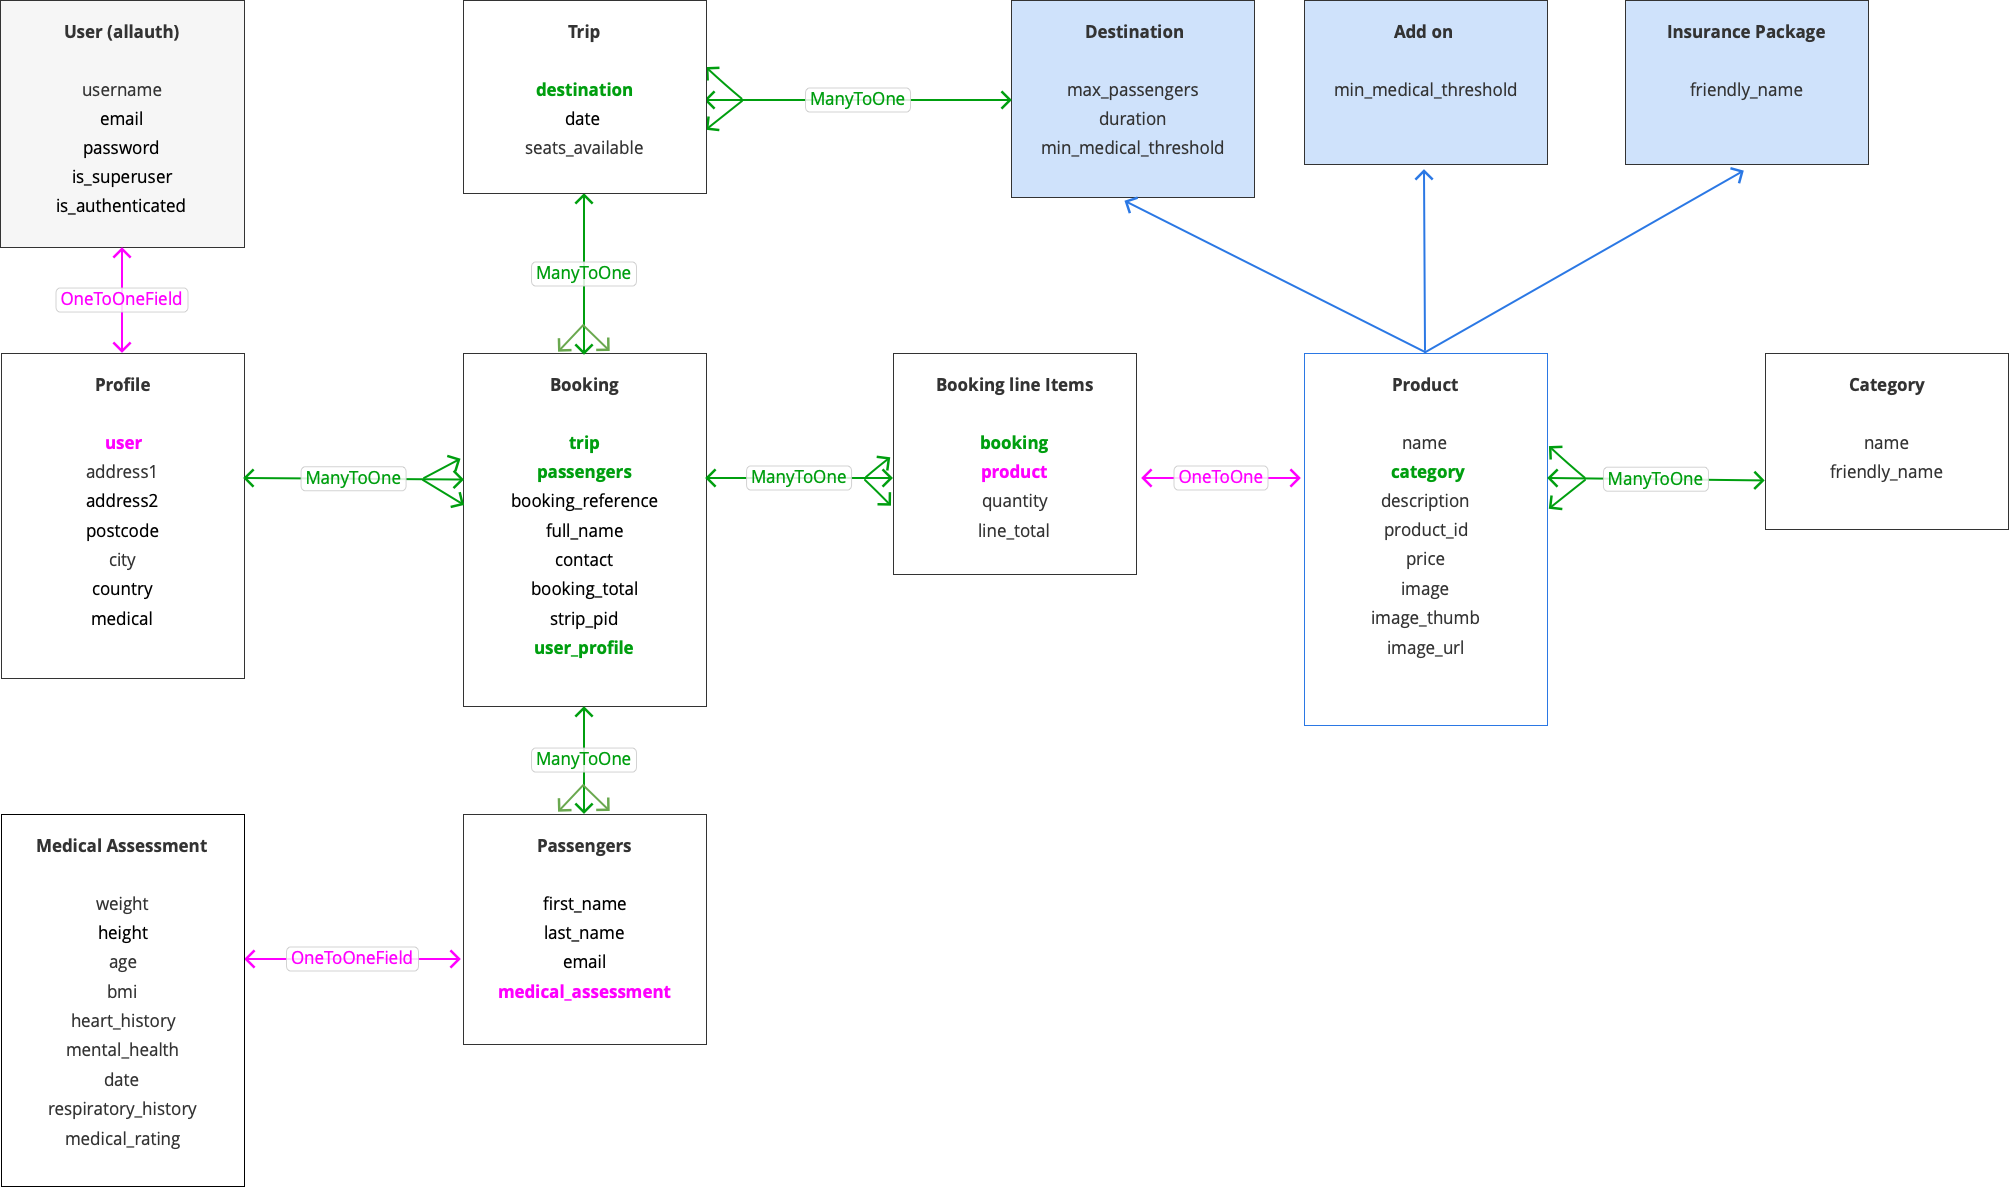
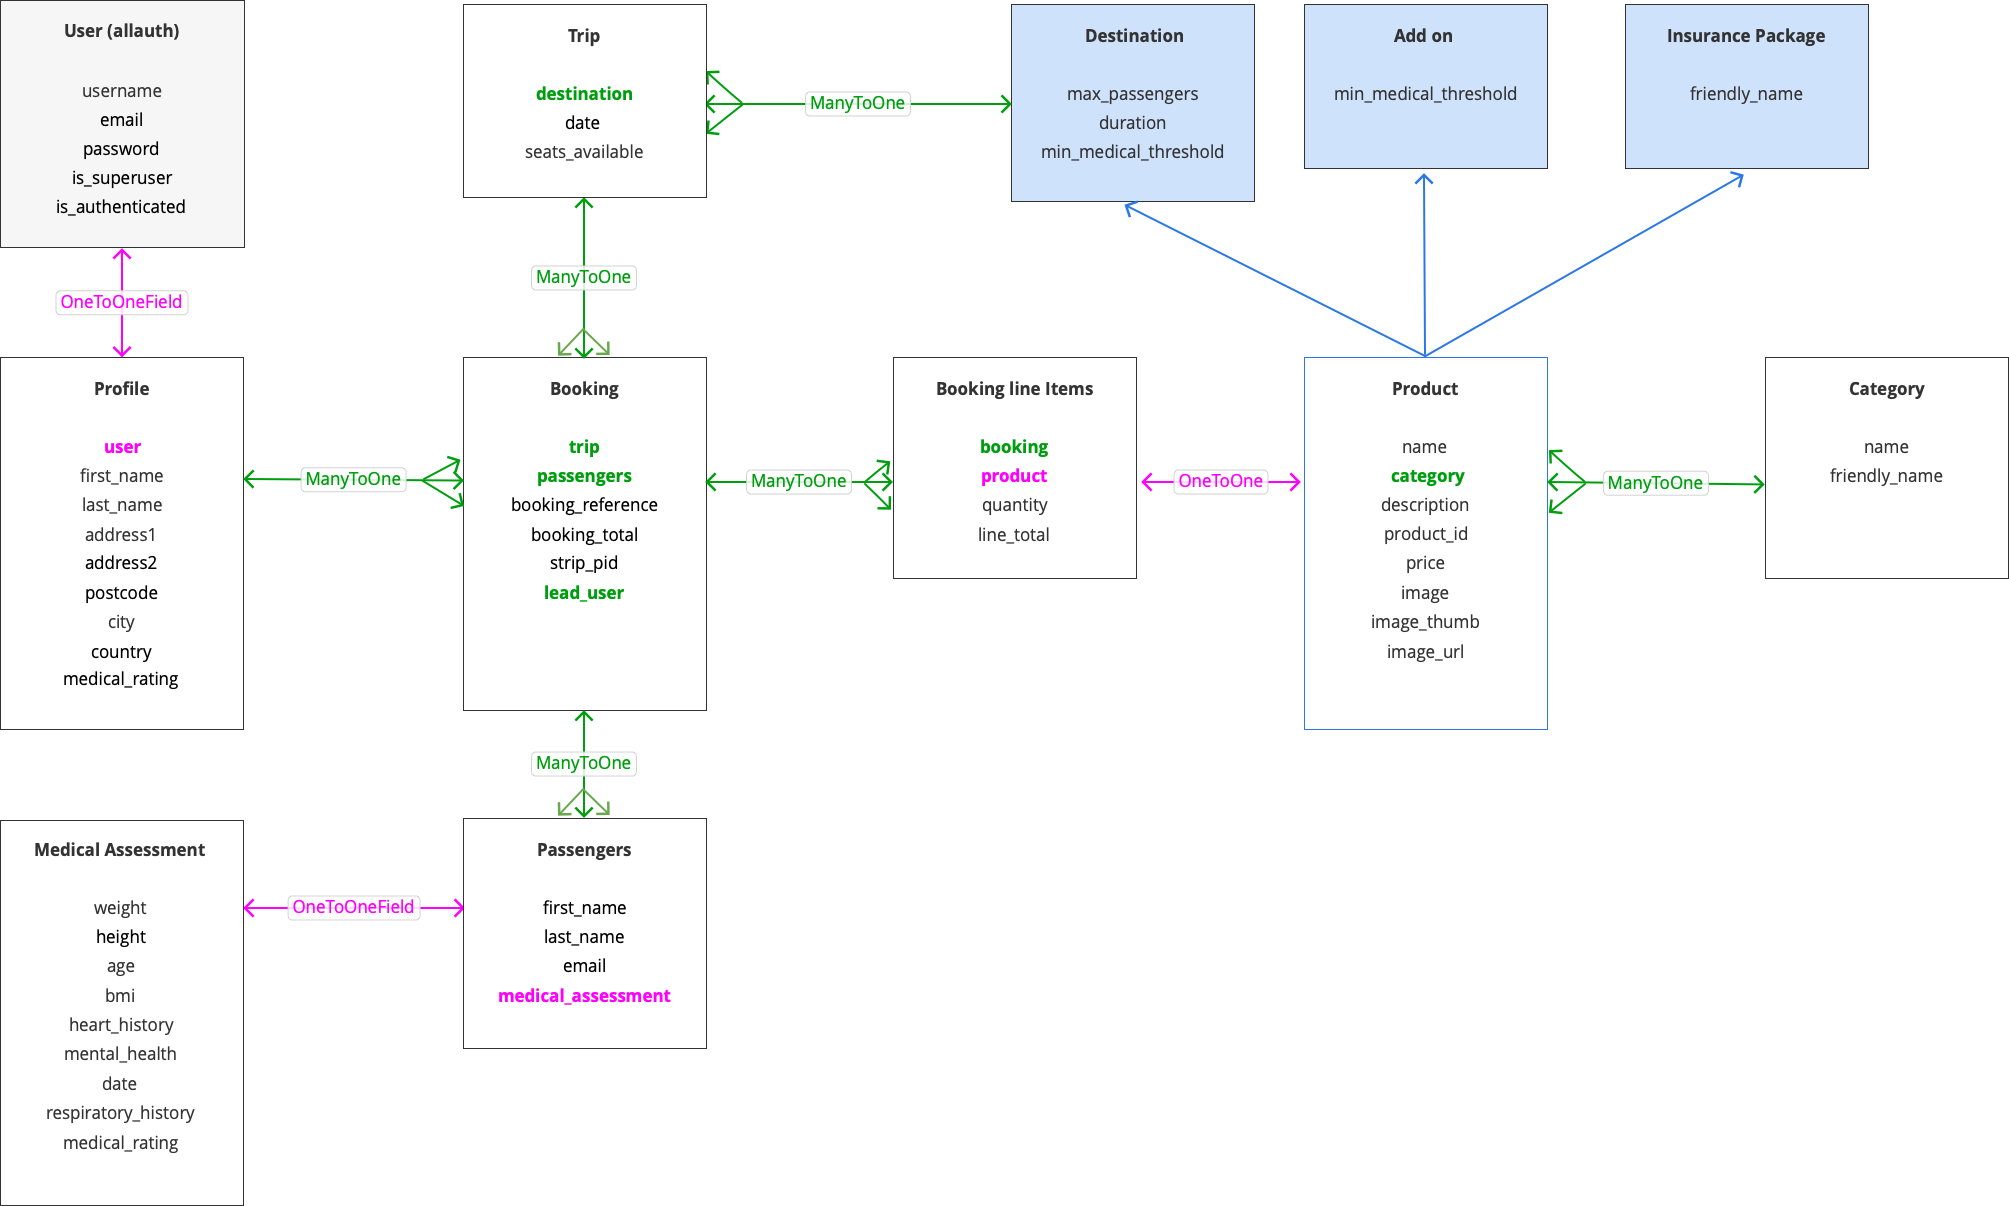
Added Docstrings

diff --git a/bookings/models.py b/bookings/models.py
@@ -1,3 +1,6 @@
+"""
+Models include Trip, Passenger and Booking Line Item
+"""
 import uuid
 from django.db import models
 from django.db.models import Count
@@ -5,6 +8,11 @@ from products.models import Destination, Product
 
 
 class Trip(models.Model):
+    """
+    Stores information about each Trip on offer to any given destination
+    Monitors how many seats are left available as booking are made
+
+    """
     destination = models.ForeignKey(
         Destination,
         null=True,
@@ -19,7 +27,7 @@ class Trip(models.Model):
 
     def save(self, *args, **kwargs):
         """
-        Override the original save method and set the number of
+        Override the original save method and update the number of
         seats available
         """
         reservations = (
@@ -33,6 +41,9 @@ class Trip(models.Model):
 
 
 class Booking(models.Model):
+    """ Model stores information about each booking such as which trip
+    the booking is for, details of the passengers and the overall cost  """
+
     booking_ref = models.CharField(
         primary_key=True, max_length=20, null=False, editable=False
     )
@@ -40,7 +51,7 @@ class Booking(models.Model):
         Trip, on_delete=models.SET_NULL, null=True, blank=False
     )
     """
-    user_profile = models.ForeignKey(
+    lead_user = models.ForeignKey(
         "UserProfile",
         on_delete=models.SET_NULL,
         null=True,
@@ -54,9 +65,6 @@ class Booking(models.Model):
     stripe_pid = models.CharField(
         max_length=254, null=False, blank=False, default=""
     )
-    first_name = models.CharField(max_length=50, null=False, blank=False)
-    last_name = models.CharField(max_length=50, null=False, blank=False)
-    email = models.EmailField(max_length=254, null=False, blank=False)
     num_passengers = models.IntegerField(null=False, blank=False)
 
     def _generate_booking_ref(self):
@@ -76,6 +84,9 @@ class Booking(models.Model):
 
 
 class Passenger(models.Model):
+    """ Store information about each passenger included
+    in a booking """
+
     booking = models.ForeignKey(
         Booking, on_delete=models.CASCADE, related_name="passengers"
     )
@@ -93,6 +104,12 @@ class Passenger(models.Model):
 
 
 class BookingLineItem(models.Model):
+    """
+    Related to the products being sold as part of the booking.
+    Each instance is an individual product that make up the order.
+    Calculates the total based on the quantity applied.
+    """
+
     booking = models.ForeignKey(
         Booking,
         null=False,

diff --git a/products/models.py b/products/models.py
@@ -1,7 +1,16 @@
+"""
+Models include Category, Product and Destination, AddOn and Insurance
+which subclass the Product model
+"""
 from django.db import models
 
 
 class Category(models.Model):
+    """
+    Applied against the Product model to define the different types
+    of products
+    """
+
     name = models.CharField(max_length=75)
     friendly_name = models.CharField(max_length=75, null=True, blank=True)
 
@@ -12,10 +21,17 @@ class Category(models.Model):
         return self.name
 
     def get_friendly_name(self):
+        """ Returns human readable name """
         return self.friendly_name
 
 
 class Product(models.Model):
+    """
+    General attributes that can be applied to all product instances
+    regardless of category.
+    Includes details that describe what the product is.
+    """
+
     category = models.ForeignKey(
         "Category", null=True, blank=True, on_delete=models.SET_NULL
     )
@@ -32,6 +48,8 @@ class Product(models.Model):
 
 
 class AddOn(Product):
+    """ Inherits Product model and adds a threshold for customers """
+
     min_medical_threshold = models.IntegerField(
         default=0, null=False, blank=False
     )
@@ -41,6 +59,8 @@ class AddOn(Product):
 
 
 class Insurance(Product):
+    """ Inherits Product model """
+
     friendly_name = models.CharField(max_length=75, blank=True)
 
     def __str__(self):
@@ -48,6 +68,10 @@ class Insurance(Product):
 
 
 class Destination(Product):
+    """ Inherits Product model and stores key information about
+    the different destinations such as how many people can travel per trip
+    and roughly how long each trip takes.  """
+
     max_passengers = models.IntegerField(null=True, blank=True)
     duration = models.CharField(max_length=20, blank=True)
     min_medical_threshold = models.IntegerField(

diff --git a/bookings/forms.py b/bookings/forms.py
@@ -1,8 +1,12 @@
+"""
+Defines the form objects to be used for the booking aspects of the app
+Includes a form to search available dates
+"""
+from datetime import date
 from django import forms
-from django.forms import ModelChoiceField
+from django.forms import ModelChoiceField, NumberInput
 from django.forms.widgets import Select
 from .models import Destination
-from datetime import date
 
 
 class DateInput(forms.DateInput):
@@ -74,7 +78,10 @@ class InitialForm(forms.Form):
     Fields include an id attribute for referencing in Javascript
     """
 
-    destination = DestinationChoiceField(queryset=Destination.objects.all())
+    destination = DestinationChoiceField(
+        queryset=Destination.objects.all(),
+        widget=SelectWithOptionAttribute(attrs={"id": "selected-trip"})
+    )
     request_date = forms.DateField(
         required=True,
         widget=DateInput(
@@ -84,8 +91,6 @@ class InitialForm(forms.Form):
             }
         ),
     )
-    passengers = forms.IntegerField()
-    passengers.widget.attrs.update(
-        {"min": 1, "disabled": True, "id": "passengers-max"}
-    )
-    destination.widget.attrs.update({"id": "selected-trip"})
+    passengers = forms.IntegerField(widget=NumberInput(attrs={
+        "min": 1, "disabled": True, "id": "passengers-max"
+    }))

diff --git a/bookings/views.py b/bookings/views.py
@@ -13,7 +13,7 @@ def initial_search(request):
             destination_choice = request.GET['destination']
             date_choice = request.GET['request_date']
             passenger_total = request.GET['passengers']
-            destinations = Trip.objects.filter(
+            trips = Trip.objects.filter(
                 destination=destination_choice
             ).filter(
                 seats_available__gte=passenger_total
@@ -21,6 +21,6 @@ def initial_search(request):
             print(destination_choice)  
             print(destinations)  
     context = {
-        'destinations': destinations
+        'trips': destinations
     }
     return render(request, template, context)

diff --git a/products/views.py b/products/views.py
@@ -1,10 +1,14 @@
+"""
+Provides logic and context for the all_trips trip_detail
+"""
 from django.shortcuts import render, get_object_or_404
-from .models import Product
 from bookings.forms import InitialForm
+from .models import Product
 
 
 def all_trips(request):
     """ A view to show all trips """
+
     template = 'products/trips.html'
     destinations = Product.objects.filter(category=3)
     intital_form = InitialForm()
@@ -19,6 +23,7 @@ def all_trips(request):
 
 def trip_detail(request, product_id):
     """ A view to show individual destination details """
+
     destination = get_object_or_404(Product, pk=product_id)
 
     template = 'products/trip_detail.html'

diff --git a/README.md b/README.md
@@ -98,11 +98,13 @@
 | Name           | Key in db              | Field Type          | Options                                      |
 |:---------------|:-----------------------|:--------------------|:---------------------------------------------|
 | User           | user                   | OneToOneField(User) | on_delete=CASCADE                            |
-| Address 1      | default_address1       | CharField           | max_length=80, null=true, blank=True         |
-| Address 2      | default_address2       | CharField           | max_length=80, null=true, blank=True         |        
-| Postcode       | default_postcode       | CharField           | max_length=20, null=true, blank=True         |
-| City           | default_town_or_city   | CharField           | max_length=40,  null=true, blank=True        |
-| Country        | default_country        | CountryField        | blank_label="Country", null=true, blank=True |
+| First Name     | default_first_name      | CharField           | max_lenghth=80, null=False, blank=False      |
+| Last Name      | default_last_name      | CharField           | max_length=80, null=False, blank=False       |
+| Address 1      | default_address1       | CharField           | max_length=80, null=True, blank=True         |
+| Address 2      | default_address2       | CharField           | max_length=80, null=True, blank=True         |        
+| Postcode       | default_postcode       | CharField           | max_length=20, null=True, blank=True         |
+| City           | default_town_or_city   | CharField           | max_length=40,  null=True, blank=True        |
+| Country        | default_country        | CountryField        | blank_label="Country", null=True, blank=True |
 | Medical Rating | default_medical_rating | IntegerField        | null=true, blank=True                        |
 
 <p>&nbsp;</p>
@@ -115,17 +117,26 @@
 
 <p>&nbsp;</p>
 
+### Trip:
+
+| Name            | Key in db       | Field Type              | Validation                                 |
+|:----------------|:----------------|:------------------------|:-------------------------------------------|
+| Destination     | destination     | ForeignKey(Destination) | null=True, blank=False, on_delete=SET_NULL |
+| Date            | date            | DateField               |             |
+| Seats Available | seats_available | IntergerField           | null=False, blank=False, editable=False    |
+
+<p>&nbsp;</p>
+
 ### Booking:
 
 | Name              | Key in db      | Field Type              | Validation                                                  |
 |:------------------|:---------------|:------------------------|:------------------------------------------------------------|
 | Booking Reference | booking_ref    | CharField               | primary_key=True, max_length=20, null=False, editable=False |
 | Trip              | trip           | ForeignKey(Trip)        | on_delete=SET_NULL, null=False, blank=False                 |
-| User Profile      | user_profile   | ForeignKey(UserProfile) | on_delete=SET_NULL, null=True, blank=True                   |
+| Lead User         | lead_user      | ForeignKey(UserProfile) | on_delete=SET_NULL, null=True, blank=True                   |
 | Booking Total     | booking_total  | DecimalField            | max_digits=10, decimal_places=2, null=False, default=0      |
 | Stripe Payment ID | stripe_pid     | CharField               | max_length=254, null=False, blank=False default=""          |
 | Full Name         | full_name      | TextField               | max_length=50, null=False, blank=False                      |
-| Email             | email          | EmailField              | max_length=254, null=False, blank=False                     |
 
 <p>&nbsp;</p>
 
@@ -134,7 +145,7 @@
 | Name               | Key in db          | Field Type             | Validation                                         |
 |:-------------------|:-------------------|:-----------------------|:---------------------------------------------------|
 | Booking            | booking            | ForeignKey(Booking)    | on_delete=CASCADE,                                 |
-| First Name         | first_name         | CharField              | on_delete=SET_NULL, null=False, blank=False        |
+| First Name         | first_name          | CharField              | on_delete=SET_NULL, null=False, blank=False        |
 | Last Name          | last_name          | CharField              | on_delete=SET_NULL, null=True, blank=True          |
 | Email              | email              | EmailField             | max_length=254, null=False, blank=False            |
 | Medical Assessment | medical_assessment | OneToOneField(Medical) | on_delete_CASCADE, null=True, blank=True           |
@@ -209,16 +220,6 @@
 | Name          | Key in db     | Field Type | Validation                |
 |:--------------|:--------------|:-----------|:--------------------------|
 | Friendly Name | friendly_name | CharField  | max_length=75, blank=True |
-
-<p>&nbsp;</p>
-
-### Trip:
-
-| Name            | Key in db       | Field Type              | Validation                                 |
-|:----------------|:----------------|:------------------------|:-------------------------------------------|
-| Destination     | destination     | ForeignKey(Destination) | null=True, blank=False, on_delete=SET_NULL |
-| Date            | date            | DateField               |             |
-| Seats Available | seats_available | IntergerField           | null=False, blank=False, editable=False    |
 
 <p>&nbsp;</p>
 
